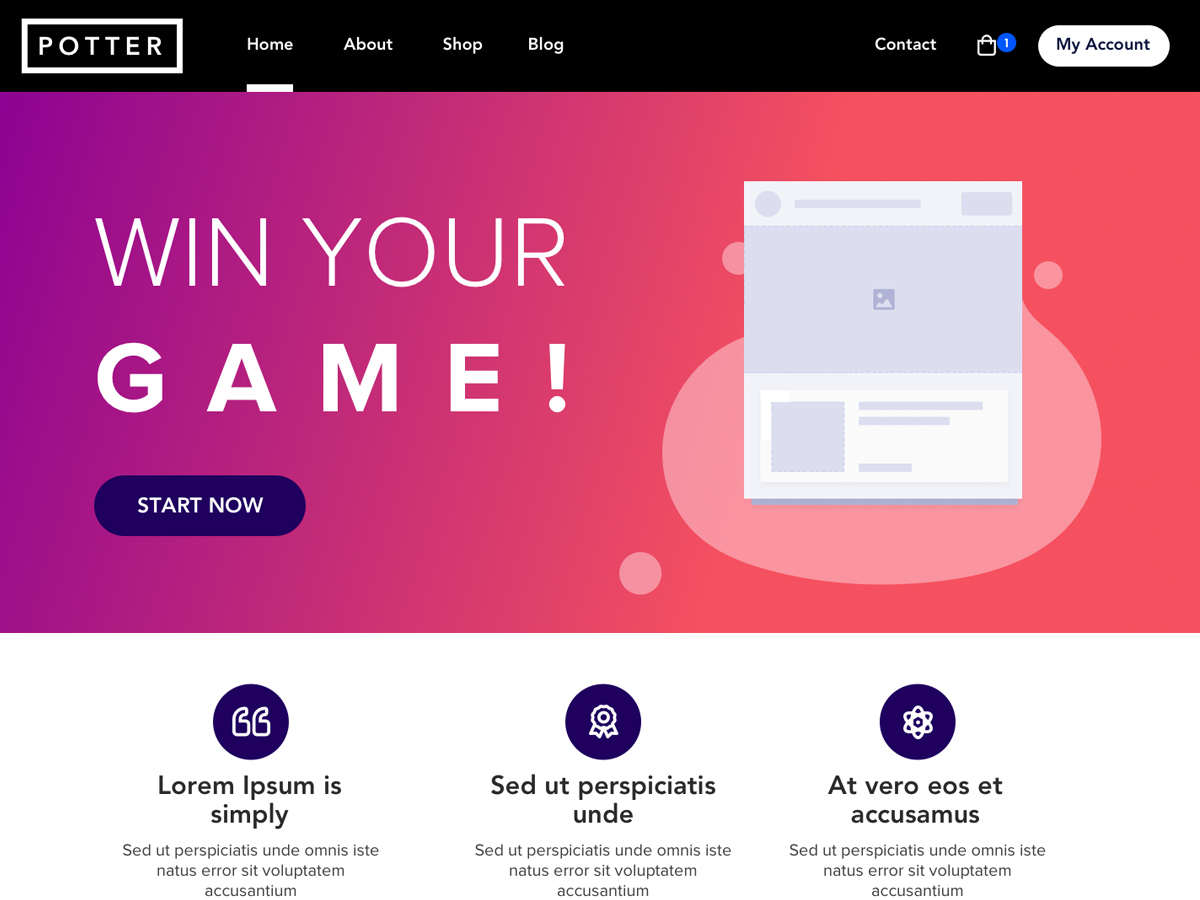
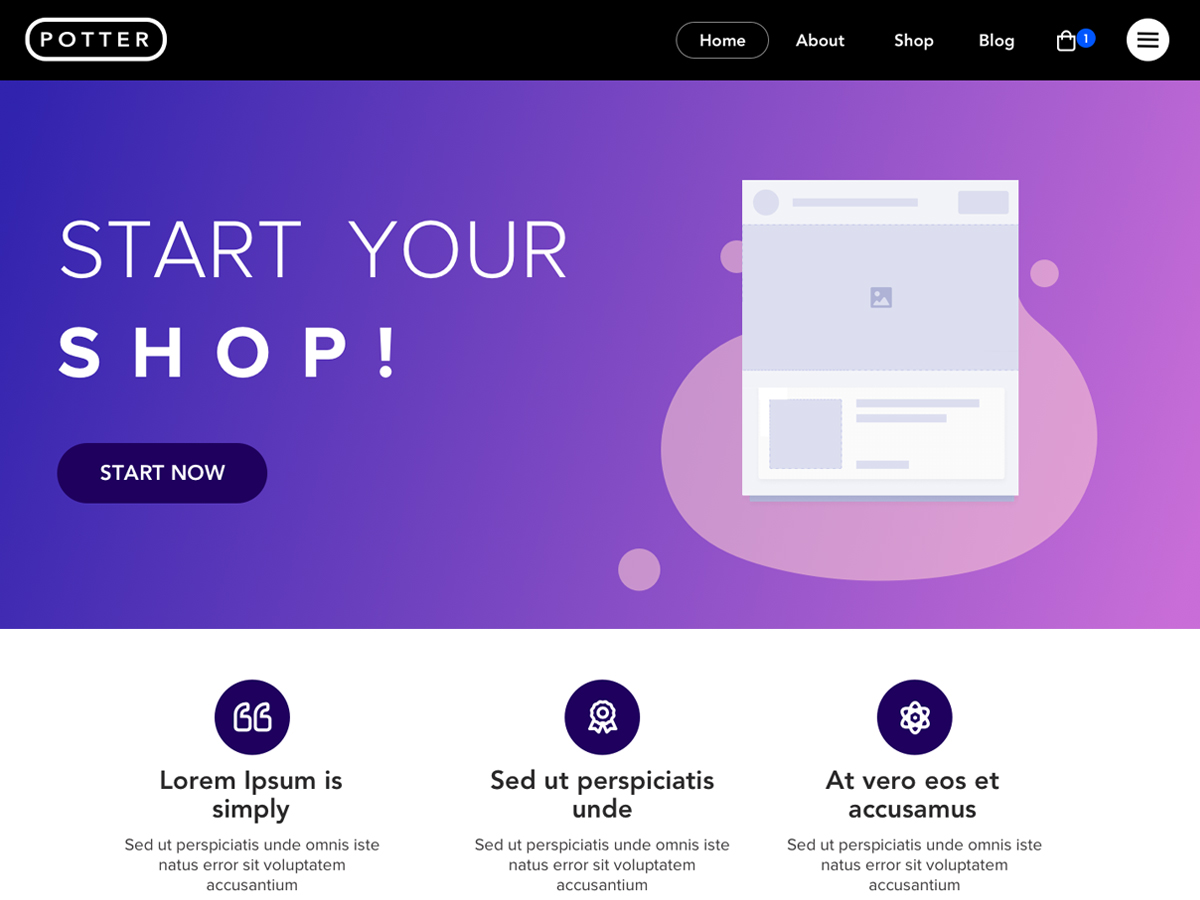
2.0 released

diff --git a/style.css b/style.css
@@ -5,7 +5,8 @@ Author: 		   wppotter
 Author URI:
 Description: 	Potter is a super fast,  gutenberg ready fully customizable & beautiful theme suitable for blog, personal portfolio, business website and WooCommerce storefront. It is very lightweight (less than 50KB on frontend) and offers unparalleled speed. Built with SEO in mind, Potter comes with Schema.org code integrated and is Native AMP ready so search engines will love your site. It offers special features and templates so it works perfectly with all page builders like Elementor, Beaver Builder, Visual Composer, SiteOrigin, Divi, etc. Some of the other features: # WooCommerce Ready # Responsive # RTL & Translation Ready # Regularly updated. Looking for a perfect base theme? Look no further. Potter is fast, fully customizable and WooCommerce & Easy Digital Downloads ready theme that you can use for building any kind of website!
 Tags: Blog,   E-Commerce,  Entertainment, Microformats, one-column, two-columns, left-sidebar, right-sidebar, custom-colors, custom-menu, featured-images, full-width-template, custom-logo, custom-background, threaded-comments, translation-ready, rtl-language-support, theme-options, block-styles, wide-blocks
-Version: 		1.1.6
+Version: 		2.0.0
+
 License:		GNU General Public License v3 or later
 License URI:	https://www.gnu.org/licenses/gpl-3.0.html
 

diff --git a/functions.php b/functions.php
@@ -208,6 +208,3 @@ function potter_is_blog()
 {
     return (is_archive() || is_author() || is_category() || is_tag()) && 'post' == get_post_type();
 }
-
-
-//minification

diff --git a/readme.md b/readme.md
@@ -87,6 +87,15 @@ Donation Link: https://pottertheme.com/
 
 == Changelog ==
 
+= 2.0 - May 22 2020 Big Release =
+* Fixed Several issues
+* Change in customizer interface and UX
+* More controll in header Options
+* More controll in Footer options
+* More controll in Offcanvas Menu
+* Fixed Several issue related to Transparent Header
+* Fixed Issue related to Sticky Header
+
 = 1.1.6 - May 8 2020 =
 * Fixed Issue related off Canvas menu
 
